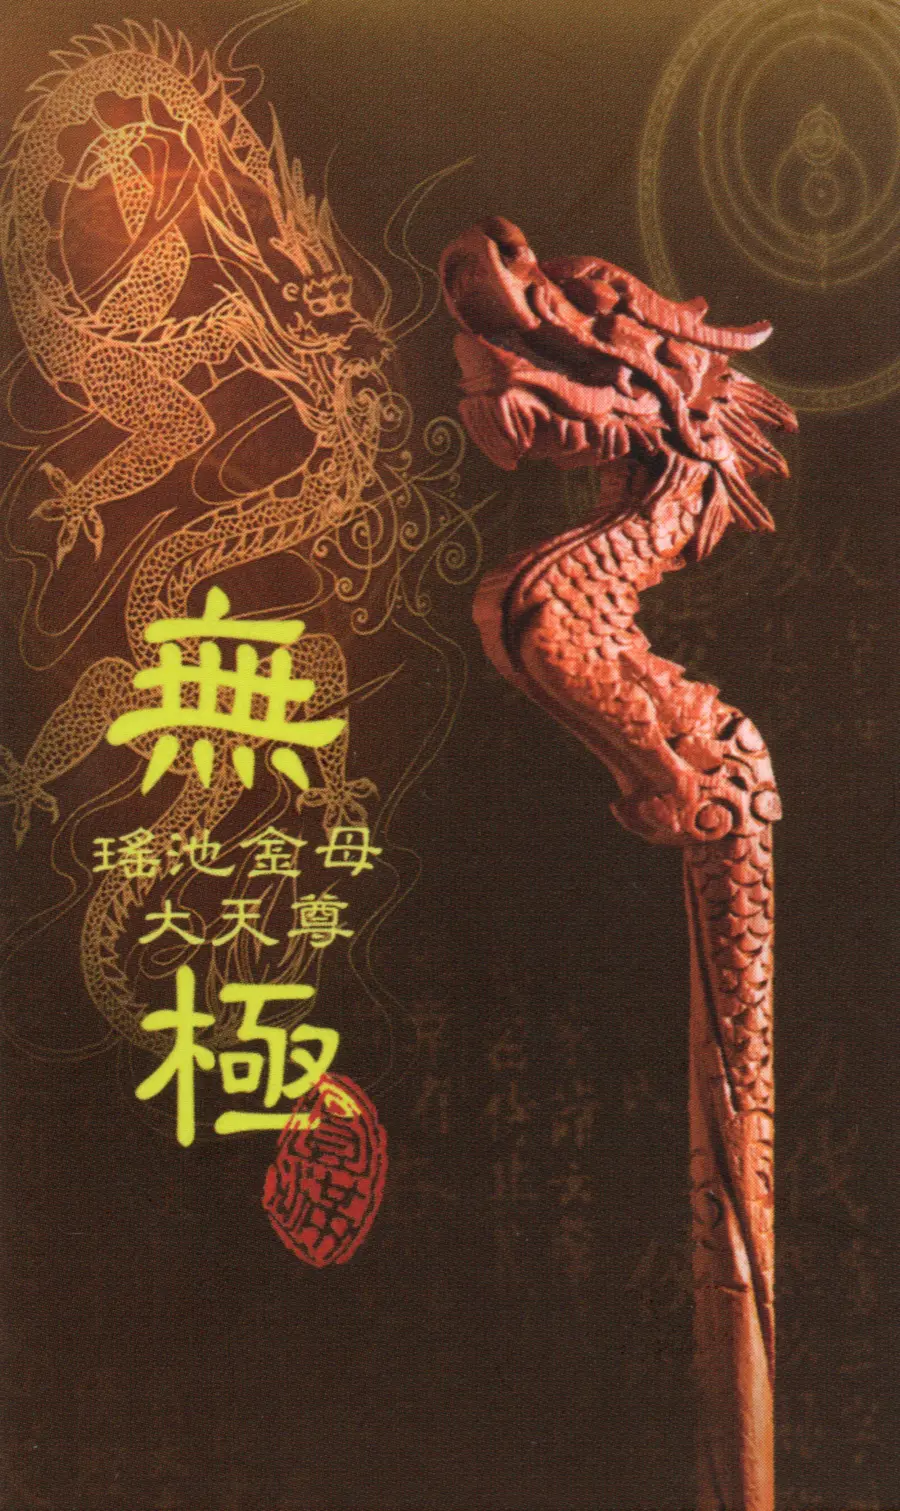
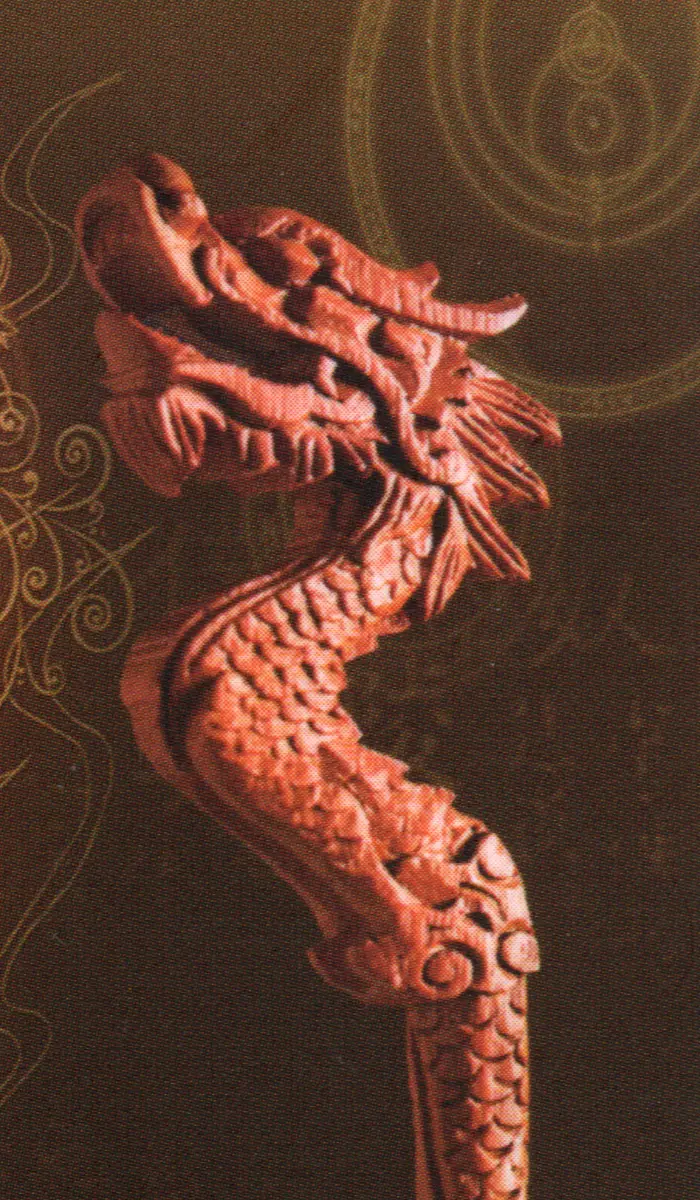
調整三願卡片圖片裁切與左右版型

diff --git a/yaochi-event-v2.html b/yaochi-event-v2.html
@@ -67,14 +67,11 @@
     .dark .section-heading p{color:rgba(247,242,233,.62)}
 
     .purpose-grid{display:grid;grid-template-columns:repeat(3,1fr);gap:18px}
-    .purpose{padding:0;overflow:hidden;border-top:3px solid var(--gold);background:#fffdf9;box-shadow:0 12px 30px rgba(53,43,31,.07)}
-    .purpose-image{display:block;width:100%;height:180px;object-fit:cover;border-bottom:1px solid rgba(165,130,84,.20)}
-    .purpose:nth-child(1) .purpose-image{object-position:50% 25%}
-    .purpose:nth-child(2) .purpose-image{object-position:50% 50%}
-    .purpose:nth-child(3) .purpose-image{object-position:50% 50%}
-    .purpose-body{padding:25px 26px 29px}
+    .purpose{display:grid;grid-template-columns:42% 1fr;min-height:270px;padding:0;overflow:hidden;border-top:3px solid var(--gold);background:#fffdf9;box-shadow:0 12px 30px rgba(53,43,31,.07)}
+    .purpose-image{display:block;width:100%;height:100%;min-height:270px;object-fit:cover;object-position:center;border-right:1px solid rgba(165,130,84,.20)}
+    .purpose-body{display:flex;flex-direction:column;justify-content:center;padding:24px 22px 26px}
     .purpose h3{margin:0 0 10px;font-family:var(--serif);font-size:23px;font-weight:500;letter-spacing:.08em;color:#493b2e}
-    .purpose p{margin:0;color:#73675b;font-size:14.5px;line-height:1.85}
+    .purpose p{margin:0;color:#73675b;font-size:13.5px;line-height:1.85}
 
     .item-groups{display:grid;gap:20px}
     .item-group{--tone:#c8aa7b;--tone-bg:#241a10;--tone-panel:rgba(165,130,84,.09);display:grid;grid-template-columns:238px 1fr;border:1px solid color-mix(in srgb,var(--tone) 42%,transparent);border-radius:16px;overflow:hidden;background:rgba(255,255,255,.035);box-shadow:0 14px 34px rgba(0,0,0,.16)}
@@ -162,7 +159,7 @@
       .container{width:min(100% - 24px,1080px)}.nav-inner{min-height:58px}.brand{font-size:16px}.hero{padding-top:12px}.hero-image{border-radius:11px}
       .teacher-message{margin-top:16px;padding:31px 24px 25px}.teacher-message h2{font-size:27px}.teacher-copy{font-size:15.5px;line-height:1.9}.teacher-copy .key-line{font-size:19px}.teacher-signoff{gap:10px}.teacher-signoff img{width:120px}.hero-meta{display:block;padding:22px 4px 28px}.event-date{font-size:22px}.hero-summary{margin-top:0;font-size:15.5px}.hero-meta>.btn{display:none}
       .paper,.dark{padding:54px 0}.section-heading{margin-bottom:28px}.section-heading h2{font-size:28px}.section-heading p{font-size:14.5px}
-      .purpose{padding:25px 22px}.item-list{grid-template-columns:1fr}.item-list>li,.item-list>li:nth-last-child(-n+2){border-bottom:1px solid rgba(200,170,123,.14)}.item-list>li:last-child{border-bottom:0}.group-title{padding:22px}.group-emblem{width:68px;height:68px;margin-bottom:17px}.deity-window{height:260px;margin:-22px -22px 21px}.group-notes{padding:19px 21px}.shared-details{grid-column:1;padding:22px}.name-grid{grid-template-columns:1fr}.pilgrimage{padding:23px 21px}
+      .purpose{grid-template-columns:1fr;min-height:0}.purpose-image{height:210px;min-height:0;border-right:0;border-bottom:1px solid rgba(165,130,84,.20)}.purpose-body{padding:23px 22px 26px}.item-list{grid-template-columns:1fr}.item-list>li,.item-list>li:nth-last-child(-n+2){border-bottom:1px solid rgba(200,170,123,.14)}.item-list>li:last-child{border-bottom:0}.group-title{padding:22px}.group-emblem{width:68px;height:68px;margin-bottom:17px}.deity-window{height:260px;margin:-22px -22px 21px}.group-notes{padding:19px 21px}.shared-details{grid-column:1;padding:22px}.name-grid{grid-template-columns:1fr}.pilgrimage{padding:23px 21px}
       .final-cta{padding:58px 0 82px}.final-cta h2{font-size:27px}.cta-actions .btn{width:100%}
       .mobile-register{position:fixed;left:12px;right:12px;bottom:max(12px,env(safe-area-inset-bottom));z-index:60;display:flex;align-items:center;justify-content:center;min-height:50px;border-radius:999px;background:#f3ecdf;color:#2e281f;text-decoration:none;font-family:var(--serif);font-size:16px;letter-spacing:.08em;box-shadow:0 10px 28px rgba(0,0,0,.35)}
       footer{padding-bottom:94px}
@@ -222,9 +219,9 @@
           <p>恭逢無極瑤池金母聖誕，靈元院依循祝壽懺儀，並將功德願力迴向個人、因緣與建院聖業。</p>
         </div>
         <div class="purpose-grid">
-          <article class="purpose"><img class="purpose-image" src="assets/yaochi-purpose-birthday.webp?v=20260818-1" alt="瑤池金母龍頭柺" width="900" height="1511" loading="lazy"><div class="purpose-body"><h3>聖誕祝壽</h3><p>以祝壽、供燈與頂禮感念母娘慈恩，祈願福慧增長、善緣具足、身心安泰。</p></div></article>
-          <article class="purpose"><img class="purpose-image" src="assets/yaochi-purpose-release.webp?v=20260818-1" alt="靈元院解冤赦業法儀" width="1200" height="818" loading="lazy"><div class="purpose-body"><h3>解冤赦業</h3><p>藉由懺悔、和解與功德迴向，祈願冤結漸解、障緣漸化，使身心回到安定清明。</p></div></article>
-          <article class="purpose"><img class="purpose-image" src="assets/yaochi-purpose-building.webp?v=20260818-1" alt="靈元院建院願景" width="1400" height="788" loading="lazy"><div class="purpose-body"><h3>建院護持</h3><p>將願力匯聚於靈元院籌建，護持未來道場成就，使修行、弘法與法脈得以長久相續。</p></div></article>
+          <article class="purpose"><img class="purpose-image" src="assets/yaochi-purpose-birthday.webp?v=20260818-2" alt="瑤池金母龍頭柺" width="700" height="1200" loading="lazy"><div class="purpose-body"><h3>聖誕祝壽</h3><p>以祝壽、供燈與頂禮感念母娘慈恩，祈願福慧增長、善緣具足、身心安泰。</p></div></article>
+          <article class="purpose"><img class="purpose-image" src="assets/yaochi-purpose-release.webp?v=20260818-2" alt="靈元院解冤赦業法儀" width="760" height="1007" loading="lazy"><div class="purpose-body"><h3>解冤赦業</h3><p>藉由懺悔、和解與功德迴向，祈願冤結漸解、障緣漸化，使身心回到安定清明。</p></div></article>
+          <article class="purpose"><img class="purpose-image" src="assets/yaochi-purpose-building.webp?v=20260818-2" alt="靈元院建院願景" width="900" height="987" loading="lazy"><div class="purpose-body"><h3>建院護持</h3><p>將願力匯聚於靈元院籌建，護持未來道場成就，使修行、弘法與法脈得以長久相續。</p></div></article>
         </div>
       </div>
     </section>
